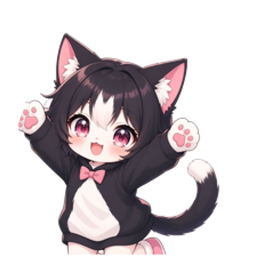
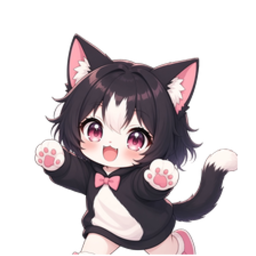
feat(pet): 奶盖的任务卡与头像换成跑姿
名册里 12 只猫各占一档姿态，奶盖原本是 happy；把它的 pose 改成新增的 run，
让「跑」这张参考图真正出现在界面上（任务卡 + 方头像共用同一档姿态）。

`cat-roster.test` 的「同花色必须换姿态」锁仍然成立（rose 组是 pout/run）。
197 张派生位图重出后 all clear；全量 659 文件 / 7001 通过（1 skipped）。

diff --git a/src/shared/cat-roster.ts b/src/shared/cat-roster.ts
@@ -26,7 +26,7 @@ export const CAT_ROSTER: readonly CatMember[] = [
   { nickname: "海苔", latin: "Haitai", coat: "azure", pose: "sleep", personaSeed: "脆的那只，一有动静就装睡，装得最像" },
   { nickname: "棉花", latin: "Mianhua", coat: "paper", pose: "puff", personaSeed: "炸毛就是一整朵云，虚张声势，先替你把门关好" },
   { nickname: "鱼丸", latin: "Yuwan", coat: "rose", pose: "pout", personaSeed: "嘴上挂着委屈，实际最会办事，办完还要你摸两下" },
-  { nickname: "奶盖", latin: "Naigai", coat: "rose", pose: "happy", personaSeed: "浮在最上面那只，永远开心，负责把气氛抬起来" },
+  { nickname: "奶盖", latin: "Naigai", coat: "rose", pose: "run", personaSeed: "浮在最上面那只，永远开心，负责把气氛抬起来" },
 ] as const;
 
 /** 旧角色名 → 新猫名。只用于日志、`LEGACY` 兜底和提交正文，**绝不进资产查找**。 */
